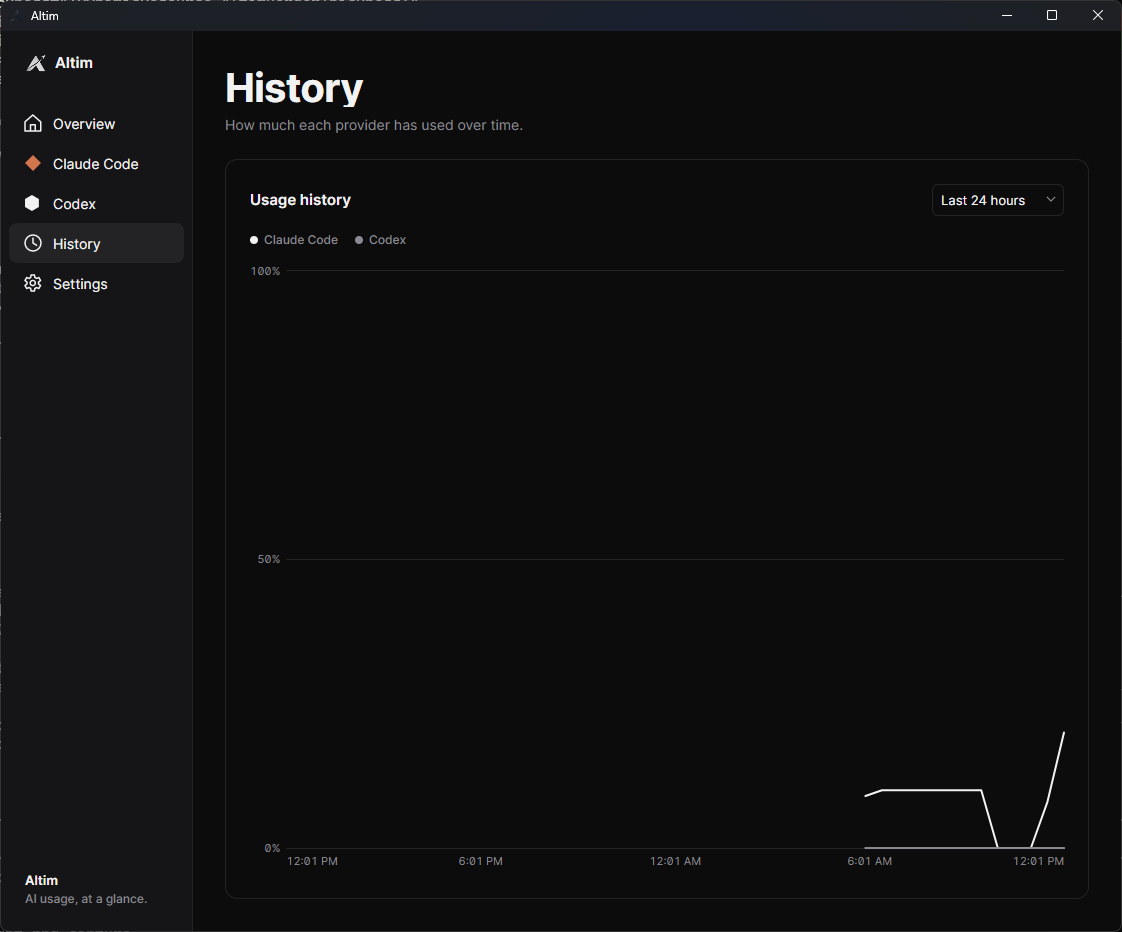
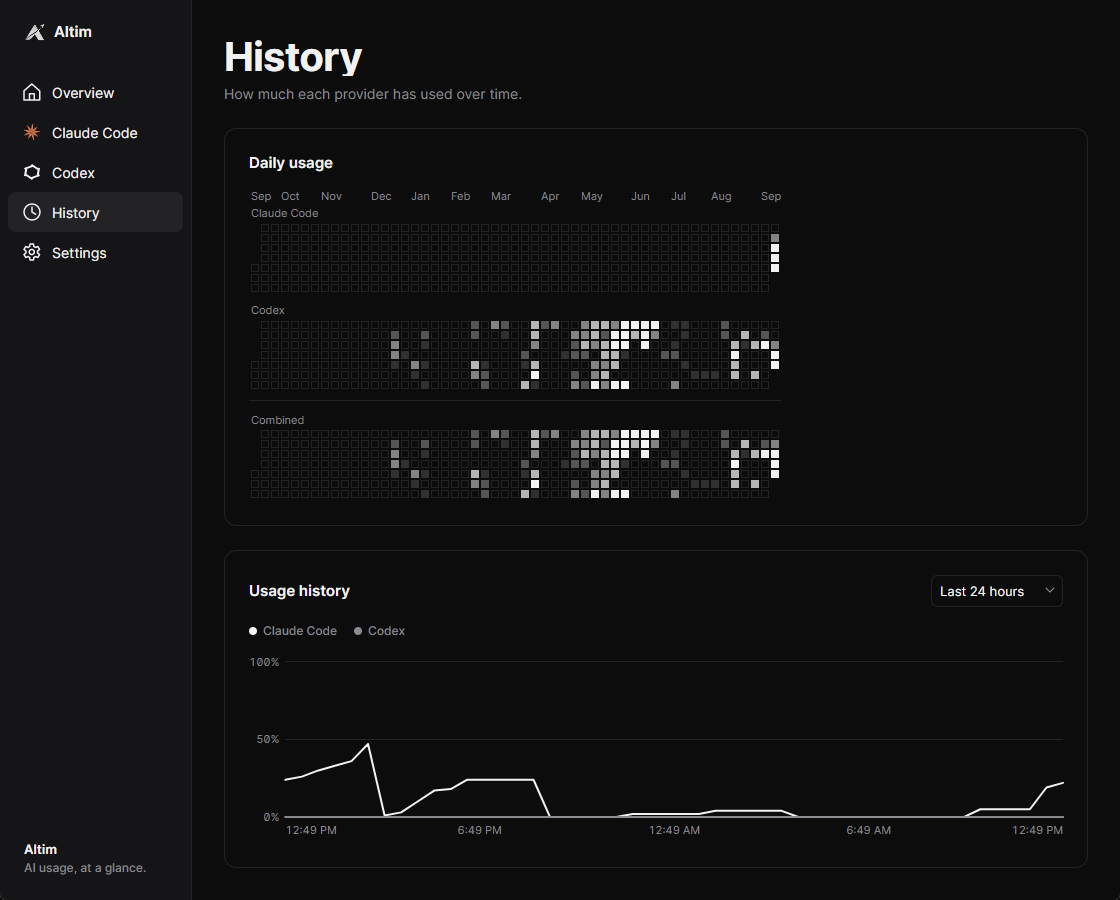
Document the usage map and what its squares do and do not mean
Says plainly that token volume is not a measure of productivity: a day
re-reading a large codebase moves tens of millions of cache tokens for
a handful of edits, a day of careful work on a hard problem moves a
fraction of that, and the map draws the first one darker.

Corrects the reach claimed for the Codex backfill. It returns the days
that had usage, not a window: a hundred buckets reaching back nine
months, where the spec had read the count as a number of days.

diff --git a/PROVIDERS.md b/PROVIDERS.md
@@ -27,7 +27,7 @@ sessions.
 |---|---|---|
 | Live usage %, window length, reset time, per limit family | `codex app-server` JSON-RPC → `account/rateLimits/read` | Best-effort |
 | Plan type, credit balance, reset credits | same response: `planType`, `credits`, `rateLimitResetCredits` | Best-effort |
-| Daily token history (97 buckets), lifetime tokens, streaks | `codex app-server` JSON-RPC → `account/usage/read` | Best-effort |
+| Daily token history (one bucket per day that had usage), lifetime tokens, streaks | `codex app-server` JSON-RPC → `account/usage/read` | Best-effort |
 | Day backfill when the once-a-minute gate is already spent | the daily buckets of the last successful `account/usage/read`, at most 5 minutes old | Best-effort |
 | Historical usage snapshots (offline fallback) | `<CODEX_HOME>/sessions/**/rollout-*.jsonl`, lines where `type == "event_msg"` and `payload.type == "token_count"` → `payload.rate_limits` | Best-effort |
 | Per-turn and per-session tokens | same lines → `payload.info.last_token_usage` (delta), `payload.info.total_token_usage` (cumulative) | Best-effort |
@@ -114,11 +114,18 @@ total. Which sessions count as "most recent" changes between one read and the ne
 moves in both directions for reasons that have nothing to do with usage: against the live store it
 alternated between 255,886,883 and 184,586,597 **inside the same minute**. Nothing derived from a
 series of these readings — their sum, their last, or their highest — is what a day cost. The map's
-daily figures therefore come from `account/usage/read`'s ~97 daily buckets and from nowhere else;
-Altim's own samples contribute that day's peak percentage only.
+daily figures therefore come from `account/usage/read`'s daily buckets and from nowhere else;
+Altim's own samples contribute that day's peak percentage only. A bucket is one undifferentiated
+figure with no breakdown, so a backfilled Codex day fills the **input** component and leaves output,
+cache read and cache write unreported: the map's tooltip breaks a day down only where the provider
+broke it down.
 
-**The backfill reaches back ~97 days and answers from the last reading when the gate is shut.** It
-makes the same gated `account/usage/read` call as the live meter, and on a real machine it almost
+**The backfill reaches as far back as the reply's own buckets, and answers from the last reading
+when the gate is shut.** The buckets are the days that had usage, not a window, so the count is not
+the span and neither of them is fixed: read on 2026-09-17 the reply carried **100 buckets, the
+oldest dated 2025-12-22**, which is 100 used days spread across about nine months. A quieter account
+answers with fewer buckets over a different stretch, so nothing here depends on the number. It makes
+the same gated `account/usage/read` call as the live meter, and on a real machine it almost
 never gets to: `monitoring.refresh_seconds` is 60 and the gate opens once a minute, so the
 scheduler's live read takes it within seconds of it opening, while the backfill asks from the
 five-minute housekeeping pass at an arbitrary instant. Measured on the verification machine,
@@ -176,6 +183,7 @@ against 2,069 local transcript files.
 | Usage summary without an open session | `claude -p --output-format json "/usage"` → human-readable text in `.result` | Best-effort |
 | Per-request tokens, per model, historical | `<config>/projects/**/*.jsonl`, `assistant` lines → `message.usage.*`, `message.model` | Best-effort |
 | Subagent tokens | `<config>/projects/<slug>/<session>/subagents/agent-*.jsonl` (`isSidechain: true`) | Best-effort |
+| Per-day token totals, for the usage map | the same transcripts, bucketed by each message's own timestamp | Best-effort |
 | Per-session totals with precomputed cost | `cost-state` entries in transcripts | Best-effort, rare (7 of 2,069 files) |
 | Rate-limit rejection events | `quotaLimits` on an `assistant` line → `{status, resetsAt, rateLimitType, …}` | Best-effort, event-only (4 of 2,069 files) |
 | Live token/cost stream per model and query source | OpenTelemetry: `CLAUDE_CODE_ENABLE_TELEMETRY=1` with the `console` or `prometheus` exporter | Documented |
@@ -249,8 +257,16 @@ incrementally by modification time, so steady-state cost is negligible.
 **The live token figure is a running total, so it is not a day either.** The provider merges every
 transcript the incremental scanner has read into one cumulative bucket and publishes that, with no
 boundary at midnight and no way to subtract the part belonging to an earlier day. Per-day figures
-come instead from the same pass bucketed by each message's own timestamp, bounded by the ~30-day
-transcript retention; Altim's own samples contribute that day's peak percentage only.
+come instead from the same pass bucketed by each message's own timestamp; Altim's own samples
+contribute that day's peak percentage only.
+
+**Their reach is the scan's, not the account's, and it is short.** The pass reads the newest 96
+transcripts written inside the last 7 days, of whatever the vendor's own pruning has left on disk,
+so the days it can account for are the days those files happen to cover. On the verification machine
+that was **four days**, not the thirty the pruning default would suggest, and a quieter or busier
+week would give a different number again. What it is not is a fixed window Altim can quote. A day
+already written keeps its row, so the map's Claude line fills forward from the first backfill rather
+than reaching further back on a later one, and everything to the left of it stays unknown.
 
 `stats-cache.json` looks authoritative and is not: on the test machine it was seven months stale
 with every cost at zero, and its units have changed across versions. Altim reads it only behind a
@@ -296,13 +312,40 @@ would ingest other people's secrets. Altim records an executable name and a bool
 
 ---
 
+## Day backfill: what fills the usage map
+
+The map draws one square per provider per local calendar day, and a day's token figure comes only
+from a source that reports whole days. Altim's own readings are running totals rather than daily
+amounts, for the reasons given under each provider above, so they supply that day's peak percentage
+and never its volume. Measured **2026-09-17**, on the machine the rest of this document was verified
+against.
+
+| Source | Reach | Grade | Notes |
+|---|---|---|---|
+| Codex daily buckets, `account/usage/read` | the buckets the reply carries: 100 used days spread over about nine months here | Best-effort | one gated network call, at most daily, with the five-minute fallback above; one undifferentiated figure per day, recorded as input with the other three components unreported |
+| Claude Code transcripts, bucketed by each message's timestamp | what the scan covers: the newest 96 transcripts written in the last 7 days, four days of usage here | Best-effort | local only, starts no process and makes no network call; reuses the incremental scanner and its cursors; reports all four components |
+| Altim's own samples | from install | Best-effort | supplies the day's **peak percentage only**, never its tokens |
+
+**Neither reach is a number Altim can promise.** The Codex figure counts days that had usage rather
+than days in a window, so the span is far wider than the count; the Claude figure is whatever the
+newest transcripts still on disk happen to cover, which is days rather than months. Both move with
+how the account was used. A backfill runs at most once a day per provider, is skipped entirely when
+its source is unavailable, and leaves the days it cannot account for unknown rather than zero.
+
+**A day row is merged field by field**: its token figure comes from a per-day source above, its peak
+from Altim's samples, and neither writer can erase the other's field. The first run here wrote **104
+day rows**, 100 from Codex and 4 from the transcripts. `codex 2026-09-17` carried 211,532,486
+backfilled tokens beside a 74% peak Altim had watched itself, while `codex 2026-09-15` carried
+tokens and no peak at all, because Altim was not running that day. The tooltip names the source, so
+a backfilled figure is never read as something Altim watched happen.
+
 ## Implementation status
 
 Wired up today:
 
 | Provider | Reading |
 |---|---|
-| Claude Code | status-line state file (documented), headless `/usage` summary, transcript token history including subagents, `claude agents --json` sessions |
+| Claude Code | status-line state file (documented), headless `/usage` summary, transcript token history including subagents, per-day totals from that same pass, `claude agents --json` sessions |
 | Codex | app-server `account/rateLimits/read` and `account/usage/read`, day backfill with a five-minute bounded fallback to the last reading, rollout tail fallback, read-only state database for recent threads, `codex doctor --json` for paths and auth mode |
 
 Deliberately not read yet, and why:

diff --git a/README.md b/README.md
@@ -22,6 +22,49 @@ question: **what are my AI coding tools consuming right now?**
 - Token counts where a provider exposes them
 - Whether an agent is working right now, and when it was last active
 - Local usage history over 24 hours, 7 days and 30 days
+- A year of daily usage as a calendar map, one square per day per provider
+
+## The usage map
+
+The History page opens on **Daily usage**: a year of squares, one per local calendar day, a row per
+provider, and a combined row summing their tokens when there is more than one. Hover a square or
+focus it from the keyboard and it gives the date, the four token components the day was reported in,
+the highest percentage of an allowance reached that day, and whether the figure was observed or
+backfilled. The combined row lists each provider's peak on its own line and never averages them: two
+providers' percentages are measured against different limits, and a number made by adding them would
+be a number nobody reported.
+
+A square's shade is a rank rather than an amount. Days that have a figure are sorted and split into
+five bands against your own history, so the darkest square means one of your own heaviest days and
+not any particular number of tokens. A linear ramp would draw every ordinary day as the palest
+square and one cache-heavy day as black.
+
+**Token volume is not a measure of productivity, and the map must not be read as one.** A day spent
+re-reading a large codebase moves tens of millions of cache tokens for a handful of edits; a day of
+careful work on a hard problem can move a hundredth of that and be worth far more. The map will draw
+the first as a dark square and the second as a pale one, because it is a picture of volume and
+volume is all it is. The tooltip's split into input, output, cache read and cache write is there so
+a heavy day can be seen for what it actually was.
+
+**An unknown day and a day that used nothing are drawn differently.** A hairline outline with no
+fill means there is no data for that day: before Altim was installed, further back than the
+provider's own history reaches, or a provider that was not installed at the time. The faintest fill
+in the ramp means there is data and it says nothing was used. Neither is allowed to stand in for the
+other.
+
+**The squares carry the providers' own daily figures.** A live reading is a running total rather
+than a day's spending, so Altim asks each provider for its own history instead, at most once a day.
+What Altim's own samples contribute is the day's peak percentage, which is a real measurement of how
+close to a limit you came. The two are merged field by field, so a day can hold a backfilled token
+figure beside a peak observed while Altim was watching, or a token figure and no peak at all because
+Altim was not running that day.
+
+How far back a row reaches is whatever a provider still holds, and the two do not match. On the
+machine these figures were measured, Codex accounted for 100 days spanning about nine months while
+the Claude Code transcript store had four days left on it. Everything older is unknown and is drawn
+as unknown. Codex also reports one undifferentiated figure per day rather than a breakdown, so its
+days carry that figure as input with the other three components unreported: the tooltip shows a
+split only where a provider gave one.
 
 ## Providers
 

diff --git a/docs/superpowers/specs/2026-09-17-usage-map-design.md b/docs/superpowers/specs/2026-09-17-usage-map-design.md
@@ -10,11 +10,17 @@ The map answers *how much did I use, and when*; the tooltip answers *did I run o
 Altim has kept usage history only since it was installed, which would make a year-long map empty
 for a year. Both providers can hand us the past:
 
-- **Codex** returns roughly 97 daily buckets from `account/usage/read`, each a date and a token
-  count. The client already calls this and currently only *counts* the array.
+- **Codex** returns one daily bucket per day that had usage from `account/usage/read`, each a date
+  and a token count. The client already calls this and currently only *counts* the array. Measured
+  once it was built: **100 buckets, the oldest dated 2025-12-22**, so those hundred used days spanned
+  about nine months. This document first said "roughly 97 daily buckets" and read that count as a
+  window of days; it is a count of the days that had usage, and the span is much wider than the
+  count.
 - **Claude Code** transcripts carry per-message usage with timestamps, and Altim already scans them
-  incrementally with de-duplication on message id. Daily totals fall out of one pass, bounded by
-  the provider's own ~30-day retention.
+  incrementally with de-duplication on message id. Daily totals fall out of one pass, and their
+  reach is that pass's: the newest 96 transcripts written inside the last 7 days, of whatever the
+  vendor's own pruning has left on disk. Measured once it was built: **four days**, not the "~30
+  days" this document took from the pruning default.
 
 So the map is useful the day it ships rather than three months later.
 
@@ -63,8 +69,8 @@ one non-empty bucket rather than producing empty ranges.
 
 | Source | Reach | Grade | Notes |
 |---|---|---|---|
-| Codex daily buckets | ~97 days | best-effort | one network call, subject to the existing permission setting and rate gate |
-| Claude transcript scan | ~30 days | best-effort | local only; reuses the incremental scanner |
+| Codex daily buckets | the days the reply carries: 100 used days over about nine months, measured | best-effort | one network call, subject to the existing permission setting and rate gate |
+| Claude transcript scan | the days the scan's own window covers: four, measured | best-effort | local only; reuses the incremental scanner |
 | Altim's own samples | from install | best-effort | supplies the day's **peak percentage only**, never its tokens |
 
 **Token figures come from the per-day sources only.** Altim's own samples contribute the day's peak
@@ -139,7 +145,8 @@ A row is written by two different writers that never overlap:
 So an upsert merges rather than replacing. A write that carries no tokens must leave the tokens
 already there untouched, and a write that carries no peak must leave the peak alone. The earlier
 rule — "observed beats backfilled", whole row — is what allowed a rollup to erase a correct
-per-day figure with a running total, and it is retired.
+per-day figure with a running total, and it is retired. Migration 3 empties the token columns of
+every row that rule wrote, since no arithmetic turns a running total back into a day.
 
 `source` describes where the **token figure** came from, because that is the number the square
 draws. A day that has a peak and no tokens draws as unknown: we know how close to the limit the user

diff --git a/ARCHITECTURE.md b/ARCHITECTURE.md
@@ -268,7 +268,28 @@ is known, what they spent is not.
 An earlier rule ranked whole rows — observed beat backfilled — and it is retired. It let the rollup,
 which has no token figure to offer, overwrite correct per-day figures with running totals; migration
 3 empties the token columns of every row that rule produced, since there is no arithmetic that turns
-a running total back into a day.
+a running total back into a day. An install carrying version 1 was upgraded through 2 to 3 against a
+live store to check that, and the rung is forward-only like the others.
+
+**Both writers ride the maintenance pass, and neither has a timer of its own**, because the idle
+cost is a measured budget and a second wake source would spend against it. The rollup covers
+yesterday and today on every pass, reaches back to the last day this process rolled up so a machine
+waking from a long sleep finishes the days it slept through, and is floored at 35 days so the first
+pass after an upgrade cannot become an unbounded read. The backfill asks each provider that
+implements `IUsageHistorySource` for a year of its own history, at most once a day, stamping the
+last run per provider in the `setting` table so a source that cannot answer never holds back one
+that can. A provider with no history source, an unreadable store or a failed call leaves its days
+unknown, and the failure is logged as an exception type with no message, because a message from
+inside a provider's store names the file it failed on.
+
+**How far back a row reaches is the provider's answer, not Altim's request.** Each is asked for a
+year and answers with what it still has: on the machine the feature was verified against, Codex
+accounted for 100 days spread over about nine months while the transcript scan covered four, so one
+row's left edge is far older than the other's and the difference is drawn as unknown rather than
+levelled off. [PROVIDERS.md](PROVIDERS.md) has both figures and what each depends on.
+
+Day rows are two a day here against thousands of samples, which is why they are kept whole while
+samples are collapsed to an hour. The map is the long memory; the samples are the short one.
 
 ## Notifications
 
@@ -285,7 +306,7 @@ spam, no notifications during the first refresh after start.
 - `Themes/Tokens.axaml` — colours per theme variant, consumed with `DynamicResource`
 - `Themes/Primitives.axaml` — radii, spacing, durations, type scale (variant-invariant)
 - `Themes/Controls/*.axaml` — one `ControlTheme` per control we restyle
-- `Controls/Meter.cs`, `Controls/UsageTape.cs` — custom render controls, no dependency
+- `Controls/Meter.cs`, `Controls/UsageTape.cs`, `Controls/UsageMap.cs` — custom render controls, no dependency
 
 Two windows:
 

diff --git a/docs/superpowers/plans/2026-09-17-usage-map.md b/docs/superpowers/plans/2026-09-17-usage-map.md
@@ -894,23 +894,23 @@ git commit -m "Draw each provider's own mark instead of placeholder geometry"
 - Modify: `README.md`, `PRIVACY.md`, `PROVIDERS.md`, `ARCHITECTURE.md`
 - Modify: `docs/screenshots/dashboard-history-dark.png` and a new light capture
 
-- [ ] **Step 1: Run the application against the real stores**
+- [x] **Step 1: Run the application against the real stores**
 
 Run: `dotnet run --project src/Altim.App -c Release`, open History, and confirm: the map draws, backfilled days appear for both providers on first run, unknown days are visibly different from zero days, the combined row sums, and both themes are right. Quit through the tray menu.
 
-- [ ] **Step 2: Capture the screenshots**
+- [x] **Step 2: Capture the screenshots**
 
 Replace the History screenshots in `docs/screenshots/` with captures showing the map.
 
-- [ ] **Step 3: Write the documentation**
+- [x] **Step 3: Write the documentation**
 
 `README.md`: what the map shows, and **plainly** that token volume is not a measure of productivity — a day of heavy cache reads dwarfs a day of careful work. `PRIVACY.md`: daily totals are kept indefinitely while samples are pruned, and the day rows carry nothing but numbers. `PROVIDERS.md`: the two backfill sources, with their reach and grade, in the existing table format. `ARCHITECTURE.md`: the day table and the rollup-versus-backfill precedence rule.
 
-- [ ] **Step 4: Verify the whole thing**
+- [x] **Step 4: Verify the whole thing**
 
 Run: `dotnet build Altim.sln -c Release` (0 warnings) and `dotnet test Altim.sln -c Release`.
 
-- [ ] **Step 5: Commit**
+- [x] **Step 5: Commit**
 
 ```bash
 git add README.md PRIVACY.md PROVIDERS.md ARCHITECTURE.md docs/screenshots
@@ -966,7 +966,7 @@ selection rather than announcing the grid again.
 Run: `dotnet test Altim.sln -c Release`
 Expected: PASS.
 
-- [ ] **Step 5: Commit**
+- [x] **Step 5: Commit**
 
 ```bash
 git add src/Altim.UI/Controls tests/Altim.UI.Tests/UsageMapKeyboardTests.cs

diff --git a/PRIVACY.md b/PRIVACY.md
@@ -34,6 +34,17 @@ A single SQLite database in your user profile, containing usage snapshots over t
 percentages, token counts, limit windows and reset times. That is what powers the 24-hour, 7-day
 and 30-day history.
 
+The same database also keeps one row per provider per day, which is what the usage map draws. That
+row holds a provider identifier, the date, four token counts, a peak percentage and one word saying
+whether the figure was observed or backfilled. There is nowhere in it for a project, a path, a
+prompt, a command or anything said in a conversation, and the readers that fill it carry none of
+those out of a provider's files in the first place.
+
+Daily totals are kept indefinitely; the samples behind them are not. Samples older than 30 days are
+collapsed to one row per metric per hour and the originals are deleted, so what survives in the long
+run is the coarser record. Reducing a day of samples to one total is strictly less revealing than
+the samples themselves, which Altim was already storing.
+
 Altim does not store project names, prompts, commands or file paths in that database. Agent
 activity is shown live in the interface and is not written to history.
 
